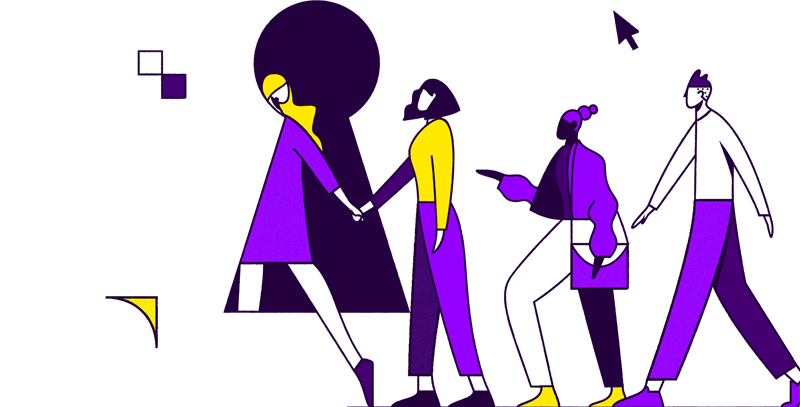
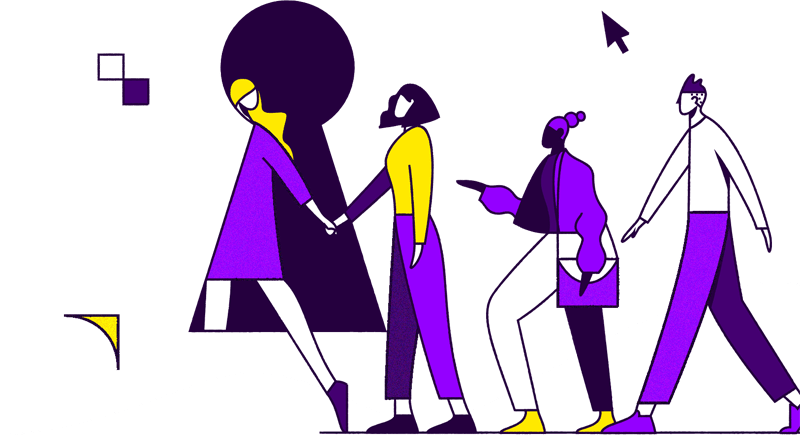
[fix bug 1455444] Update bg on Portland safe /new variation.

Changed region(s): [[0.0625, 0.0, 1.0, 1.0], [0.75, 0.0295, 0.8125, 0.1179], [0.9375, 0.7076, 0.9688, 0.7666]]

diff --git a/media/css/firefox/new/portland.scss b/media/css/firefox/new/portland.scss
@@ -232,18 +232,27 @@ body {
 
     @media #{$mq-desktop} {
         .content-wrapper {
-            background: url('/media/img/firefox/new/portland/bg-portland-safe.png') bottom right no-repeat;
-            background-size: 600px 306px;
+            background: url('/media/img/firefox/new/portland/bg-portland-safe.png') bottom -1px right no-repeat;
+            background-size: 600px 326px;
         }
 
         .copy {
             width: 480px;
         }
+
+        // the bg image sits under the text slightly - this shadow is just to provide a bit of separation
+        h1 {
+            text-shadow: -1px 1px 0 rgba(0, 0, 0, 0.5);
+        }
     }
 
     @media #{$mq-desktop-wide-ish} {
         .content-wrapper {
-            background-size: 800px 408px;
+            background-size: 800px 435px;
+        }
+
+        h1 {
+            text-shadow: none;
         }
     }
 }
